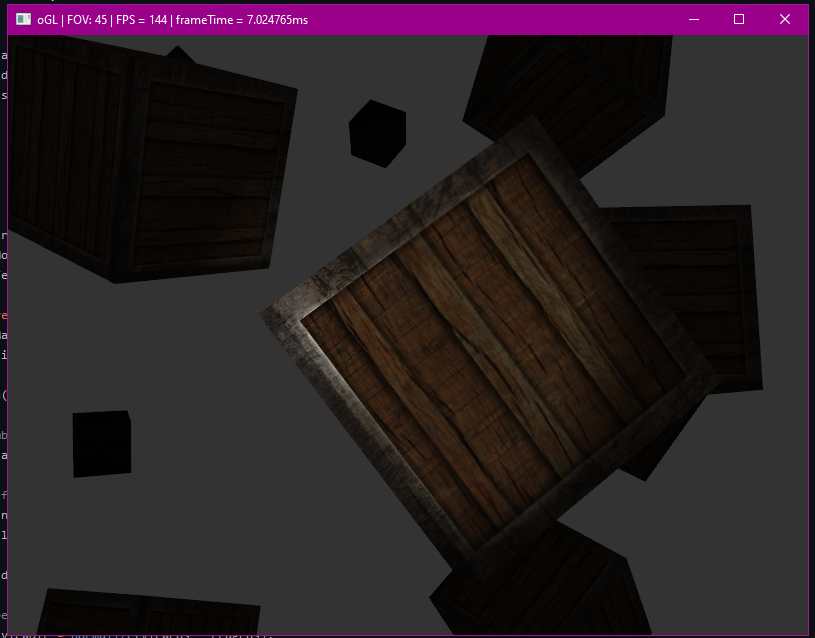
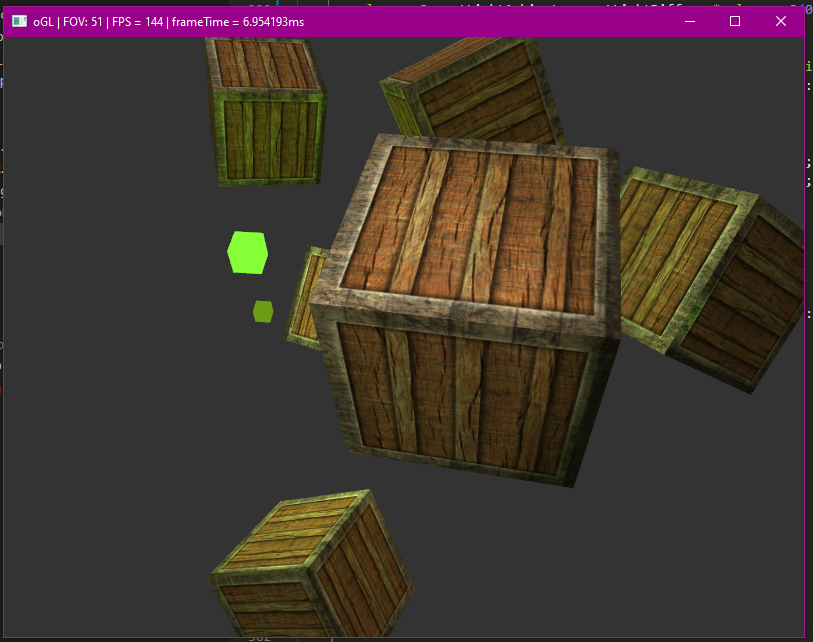
Multi light

diff --git a/src/main.cpp b/src/main.cpp
@@ -70,7 +70,12 @@ glm::vec3 cubePositions[] ={
     glm::vec3(-1.3f, 1.0f, -1.5f)
 };
 
-glm::vec3 lightPos(1.2f, 1.0f, 2.0f);
+glm::vec3 pointLightPositions[] = {
+    glm::vec3( 0.7f,  0.2f,   2.0f),
+    glm::vec3( 2.3f, -3.3f,  -4.0f),
+    glm::vec3(-4.0f,  2.0f, -12.0f),
+    glm::vec3( 0.0f,  0.0f,  -3.0f)
+};
 
 void framebuffer_size_callback(GLFWwindow *window, int width, int height){
     glViewport(0, 0, width, height);
@@ -219,8 +224,8 @@ int main(int argc, char **argv){
     stbi_image_free(data);
 
 
-    shader lightingShader("./vertex.vs", "./fragment_light.fs");
-    lightingShader.use();
+    shader pointLightShader("./vertex.vs", "./fragment_light.fs");
+    pointLightShader.use();
     // lighting 
     unsigned int lightVAO;
     glGenVertexArrays(1, &lightVAO);
@@ -264,31 +269,75 @@ int main(int argc, char **argv){
         glClearColor(0.2f, 0.2f, 0.2f, 1.0f);
         glClear(GL_COLOR_BUFFER_BIT | GL_DEPTH_BUFFER_BIT);
 
+        glm::mat4 model = glm::mat4(1.0f);
+        glm::mat4 view = cam.GetViewMatrix();
+        glm::mat4 projection = glm::perspective(glm::radians(cam.fov), 800.0f / 600.0f, 0.1f, 100.0f);
+        
+
         // object
         shaderCrate.use();
         shaderCrate.setInt("material.diffuse", 0);
         shaderCrate.setInt("material.specular", 1);
         shaderCrate.setFloat("material.shininess", 64.0f);
 
-        glm::vec3 lightColor = glm::vec3(1.0f);
-        glm::vec3 lightDiffuse = lightColor * glm::vec3(0.9f);
-        glm::vec3 lightAmbient = lightDiffuse * glm::vec3(0.5f);
-        shaderCrate.setVec3("light.ambient", lightAmbient);
-        shaderCrate.setVec3("light.diffuse", lightDiffuse);
-        shaderCrate.setVec3("light.position", cam.position);
-        shaderCrate.setVec3("light.direction", cam.front);
-        shaderCrate.setFloat("light.cutoff", glm::cos(glm::radians(12.5f)));
-        shaderCrate.setFloat("light.outerCutoff", glm::cos(glm::radians(17.5f)));
-        shaderCrate.setVec3("light.specular", 1.0f, 1.0f, 1.0f);
-        shaderCrate.setFloat("light.constant", 1.0f);
-        shaderCrate.setFloat("light.linear", 0.59f);
-        shaderCrate.setFloat("light.quadratic", 0.032f);
-        shaderCrate.setVec3("viewPos", cam.position);
+        // directional light
+        glm::vec3 dirLightColor = glm::vec3(1.0f);
+        glm::vec3 dirLightDiffuse = dirLightColor * glm::vec3(0.8f);
+        glm::vec3 dirLightAmbient = dirLightDiffuse * glm::vec3(0.2f);
+        shaderCrate.setVec3("dirLight.direction", -0.2f, -1.0f, 0.2f);
+        shaderCrate.setVec3("dirLight.ambient", dirLightAmbient);
+        shaderCrate.setVec3("dirLight.diffuse", dirLightDiffuse);        
+        shaderCrate.setVec3("dirLight.specular", dirLightColor);
+    
+        // point lights
+        for(int i = 0; i < (sizeof(pointLightPositions) / sizeof(glm::vec3)); i++){
+            shaderCrate.use();
+            double t = glfwGetTime();
+            glm::vec3 pointLightColor = glm::vec3(1.0f, 0.0f, 0.0f);
+            pointLightColor.x = sin(t + 0.1f * i) * 0.5f + 0.5f;
+            pointLightColor.y = sin(2 * t + 0.7f * i) * 0.5f + 0.5f;
+            pointLightColor.z = sin(5 * t + 0.2f * i) * 0.5f + 0.5f;
+            glm::vec3 pointLightDiffuse = pointLightColor * glm::vec3(0.8f);
+            glm::vec3 pointLightAmbient = pointLightDiffuse * glm::vec3(0.2f);
+            std::string name_1 = "pointLights[" + std::to_string(i) + "]";
+            shaderCrate.setVec3(name_1 + ".position", pointLightPositions[i]);
+            shaderCrate.setFloat(name_1 + ".constant", 1.0f);
+            shaderCrate.setFloat(name_1 + ".linear", 0.09f);
+            shaderCrate.setFloat(name_1 + ".quadratic", 0.032f);
+            shaderCrate.setVec3(name_1 + ".ambient", pointLightAmbient);
+            shaderCrate.setVec3(name_1 + ".diffuse", pointLightDiffuse);
+            shaderCrate.setVec3(name_1 + ".specular", pointLightColor);
+            // light representation
+            pointLightShader.use();
+            model = glm::mat4(1.0f);
+            model = glm::translate(model, pointLightPositions[i]);
+            model = glm::scale(model, glm::vec3(0.2f));
+            pointLightShader.setMat4("view", view);
+            pointLightShader.setMat4("projection", projection);
+            pointLightShader.setMat4("model", model);
+            pointLightShader.setVec3("color", pointLightColor);
+            glBindVertexArray(lightVAO);
+            glDrawArrays(GL_TRIANGLES, 0, 36);
+        }
         
-        glm::mat4 model = glm::mat4(1.0f);
-        glm::mat4 view = cam.GetViewMatrix();
-        glm::mat4 projection = glm::perspective(glm::radians(cam.fov), 800.0f / 600.0f, 0.1f, 100.0f);
-            
+        
+        shaderCrate.use();
+        // spot light
+        glm::vec3 spotLightColor = glm::vec3(1.0f);
+        glm::vec3 spotLightDiffuse = spotLightColor * glm::vec3(0.8f);
+        glm::vec3 spotLightAmbient = spotLightDiffuse * glm::vec3(0.2f);
+        shaderCrate.setVec3("spotLight.position", cam.position);
+        shaderCrate.setVec3("spotLight.direction", cam.front);
+        shaderCrate.setFloat("spotLight.cutOff", glm::cos(glm::radians(12.5f)));
+        shaderCrate.setFloat("spotLight.outerCutOff", glm::cos(glm::radians(17.5f)));
+        shaderCrate.setFloat("spotLight.constant", 1.0f);
+        shaderCrate.setFloat("spotLight.linear", 0.09f);
+        shaderCrate.setFloat("spotLight.quadratic", 0.032f);
+        shaderCrate.setVec3("spotLight.ambient", spotLightAmbient);
+        shaderCrate.setVec3("spotLight.diffuse", spotLightDiffuse);        
+        shaderCrate.setVec3("spotLight.specular", spotLightColor);
+        
+        // objects
         for (int i = 0; i < 10; i++){    
             model = glm::mat4(1.0f);
             model = glm::translate(model, cubePositions[i]);
@@ -304,18 +353,6 @@ int main(int argc, char **argv){
             glBindVertexArray(VAO);
             glDrawArrays(GL_TRIANGLES, 0, 36);
         }
-        // light
-        // lightingShader.use();
-        // model = glm::mat4(1.0f);
-        // model = glm::translate(model, lightPos);
-        // model = glm::scale(model, glm::vec3(0.2f));
-        // lightingShader.setMat4("view", view);
-        // lightingShader.setMat4("projection", projection);
-        // lightingShader.setMat4("model", model);
-        // lightingShader.setVec3("color", lightColor);
-        // glBindVertexArray(lightVAO);
-        // glDrawArrays(GL_TRIANGLES, 0, 36);
-
 
         glfwSwapBuffers(window);
         glfwPollEvents();
